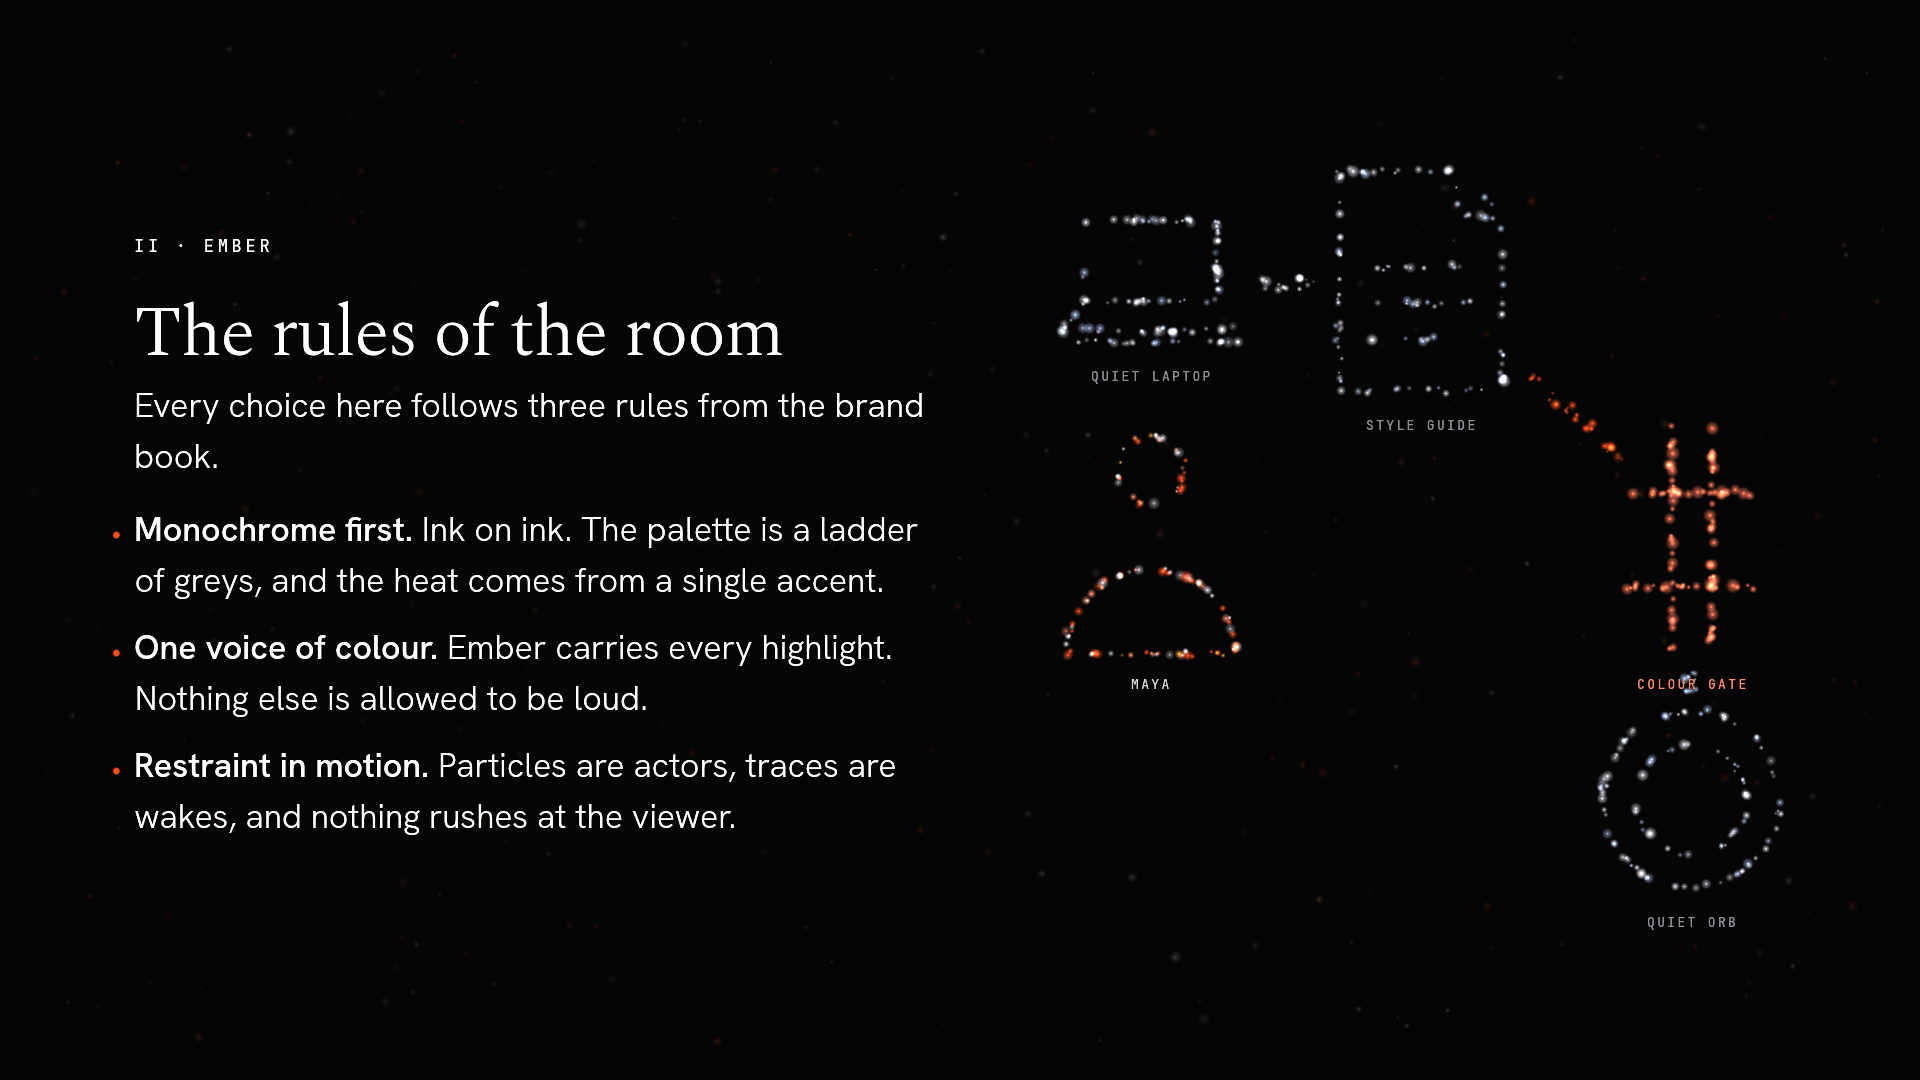
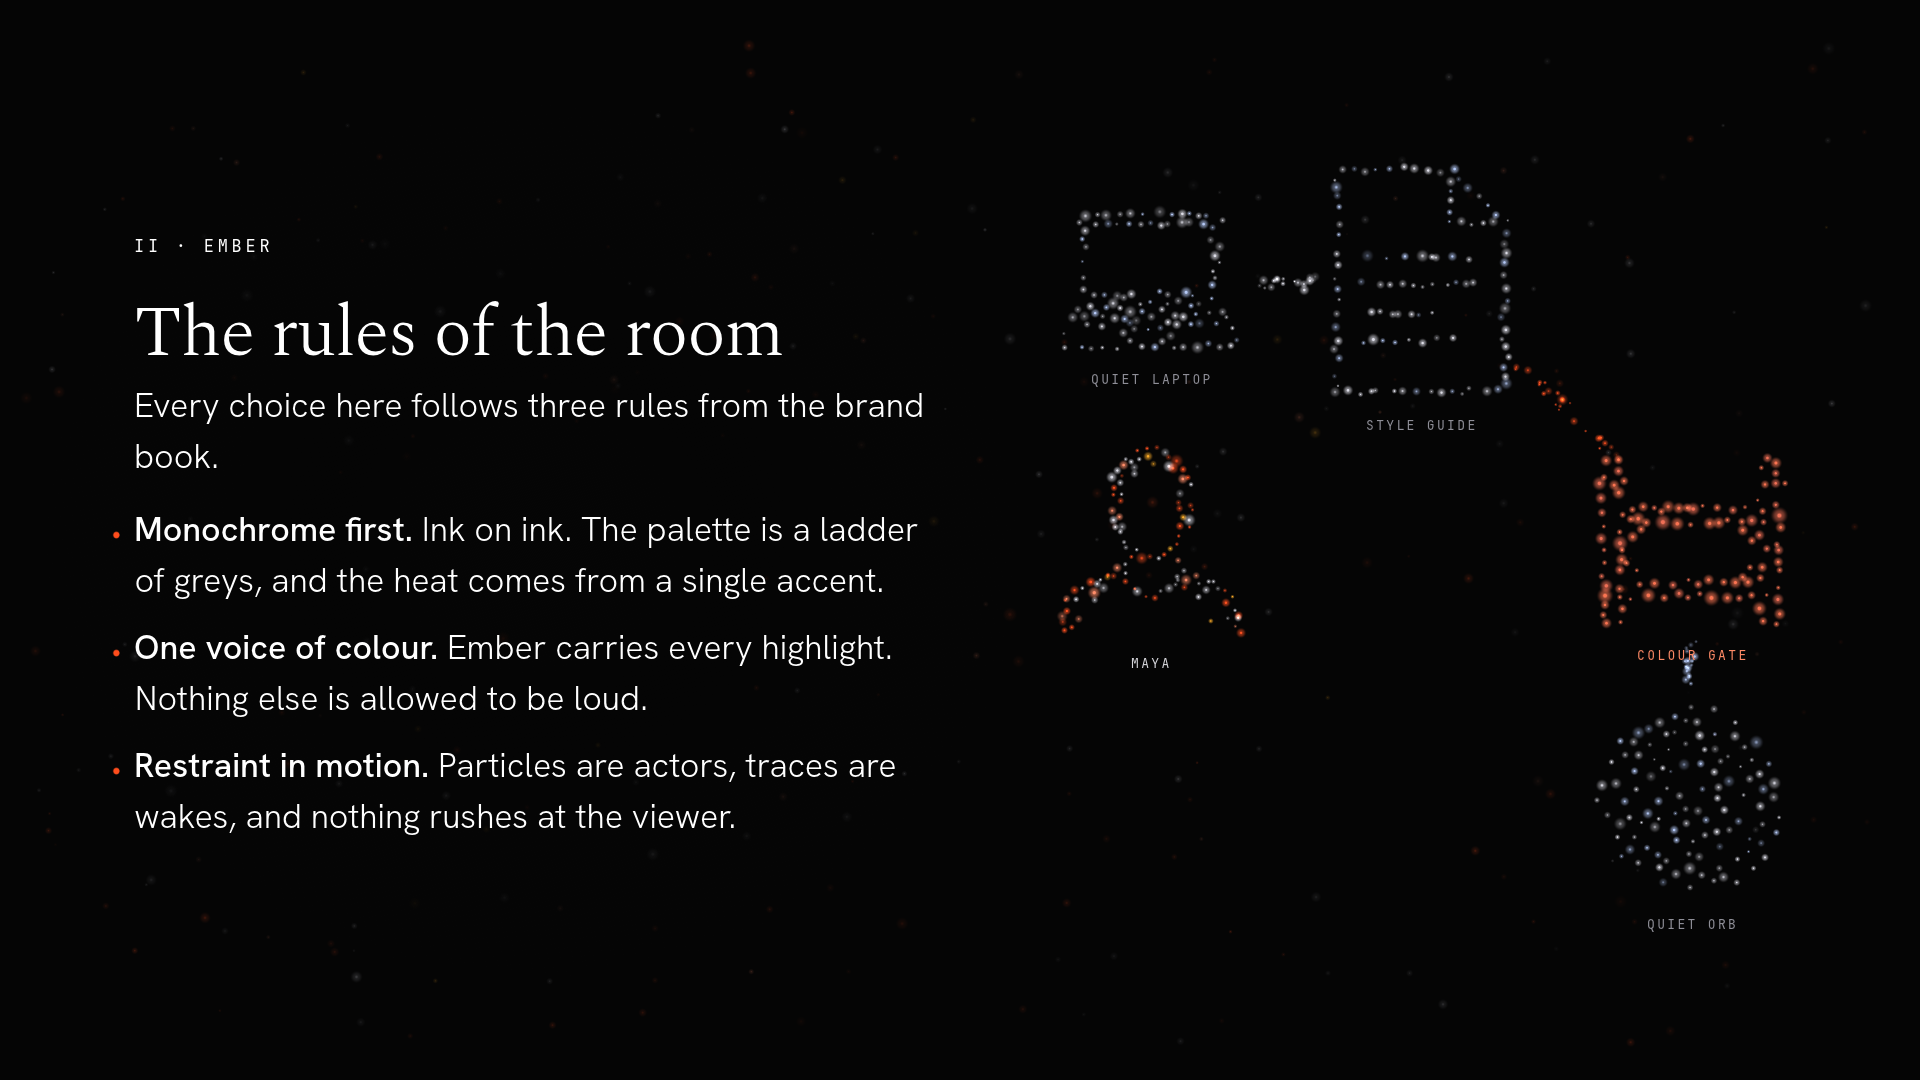
Release v1.1.1
Claude-Session: https://claude.ai/code/session_01PMWabr62p8anRjm3nzJy2D

diff --git a/README.md b/README.md
@@ -204,7 +204,9 @@ behind every slide. Set `@theme: ember` and any deck you already have gets it.
 bullet slide lights one cluster per item as you reveal them. Quotes burn like
 a candle, code slides rain. On charts and diagrams the particles serve what is
 drawn: embers rise off bars, runners travel the edges of a diagram, sparks
-circle a pie. None of this needs a line of authoring.
+circle a pie. Behind it all the dark is space: a star field drifting slowly
+forward, dust, a galaxy, or a nebula, rotating by slide so a run of bullet
+slides never repeats itself. None of this needs a line of authoring.
 
 **It can tell a story.** Describe a scene in English in a ```` ```@story ````
 fence on a slide, run `mdeck ai story talk.md`, and the particles form a cast

diff --git a/CHANGELOG.md b/CHANGELOG.md
@@ -2,7 +2,7 @@
 
 All notable changes to this project will be documented in this file.
 
-## [Unreleased]
+## [1.1.1] - 2026-09-15
 
 ### Added
 
